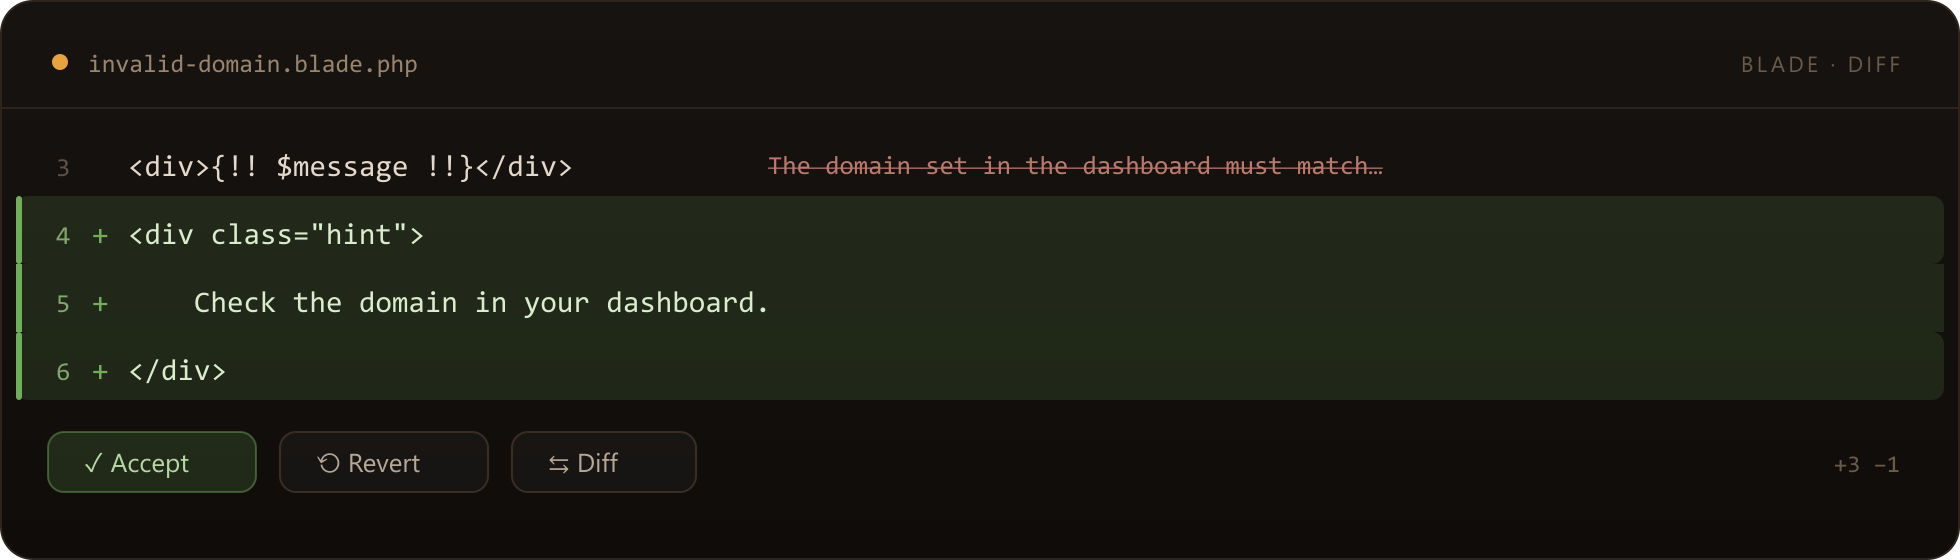
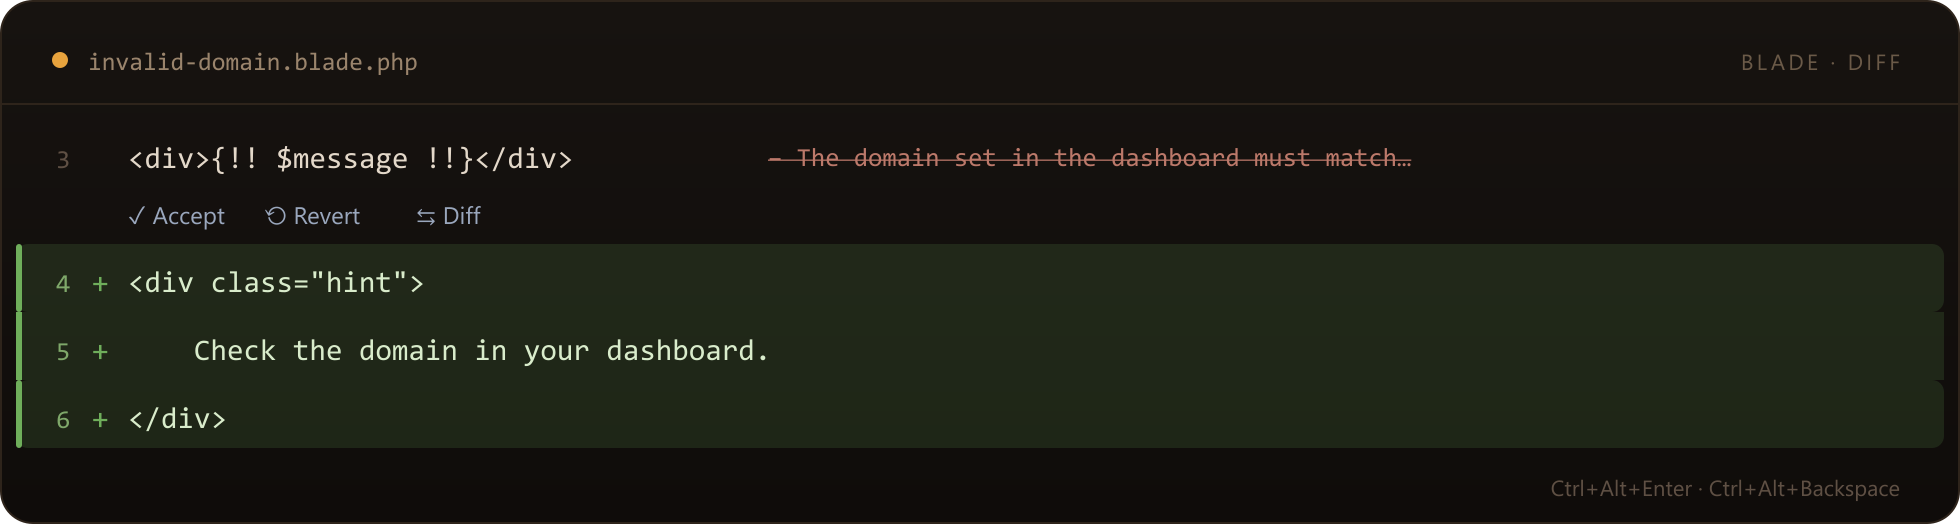
Snippet matches the real CodeLens UI; local SVG badges instead of shields.io

diff --git a/README.md b/README.md
@@ -7,10 +7,10 @@
 **See what your agent changed, right in VS Code.** Added lines in green, deleted lines in red,
 Accept and Revert buttons — all computed locally, without a single AI request.
 
-<img alt="VS Code" src="https://img.shields.io/badge/VS%20Code-1.90%2B-5B7CFF?logo=visualstudiocode&logoColor=white">
-<img alt="License" src="https://img.shields.io/badge/license-MIT-3FB950">
-<img alt="Dependencies" src="https://img.shields.io/badge/dependencies-0-2F81F7">
-<img alt="AI requests" src="https://img.shields.io/badge/AI%20requests-0-F85149">
+<img alt="VS Code 1.90+" src="docs/badge-vscode.svg">
+<img alt="License MIT" src="docs/badge-license.svg">
+<img alt="No dependencies" src="docs/badge-deps.svg">
+<img alt="Zero AI requests" src="docs/badge-ai.svg">
 
 </div>
 
